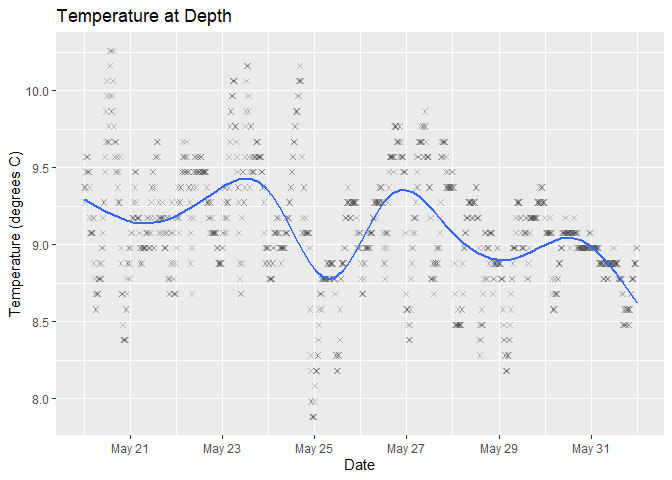
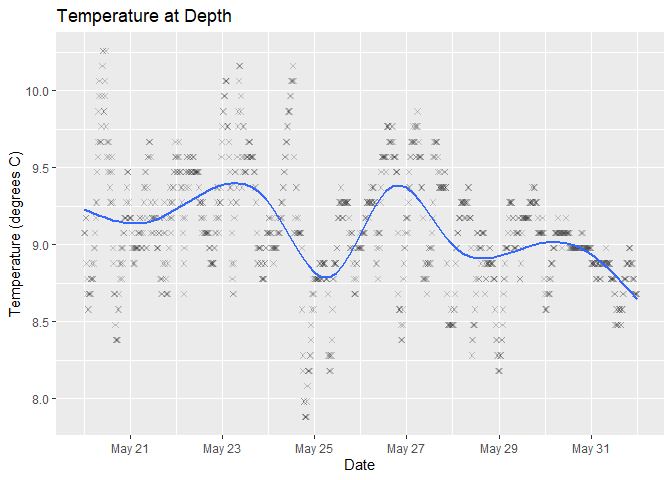
updated timezones

diff --git a/README.md b/README.md
@@ -28,16 +28,16 @@ x
     ## # A tibble: 9,025 x 4
     ##    Reading DateTime             Temp Intensity
     ##      <dbl> <dttm>              <dbl>     <dbl>
-    ##  1      69 2021-05-15 00:04:32  7.98         0
-    ##  2      70 2021-05-15 00:19:32  7.88         0
-    ##  3      71 2021-05-15 00:34:32  7.88         0
-    ##  4      72 2021-05-15 00:49:32  7.88         0
-    ##  5      73 2021-05-15 01:04:32  7.78         0
-    ##  6      74 2021-05-15 01:19:32  7.78         0
-    ##  7      75 2021-05-15 01:34:32  7.78         0
-    ##  8      76 2021-05-15 01:49:32  7.78         0
-    ##  9      77 2021-05-15 02:04:32  7.88         0
-    ## 10      78 2021-05-15 02:19:32  7.88         0
+    ##  1      85 2021-05-15 00:04:32  7.68         0
+    ##  2      86 2021-05-15 00:19:32  7.68         0
+    ##  3      87 2021-05-15 00:34:32  7.78         0
+    ##  4      88 2021-05-15 00:49:32  7.78         0
+    ##  5      89 2021-05-15 01:04:32  7.78         2
+    ##  6      90 2021-05-15 01:19:32  7.68         9
+    ##  7      91 2021-05-15 01:34:32  7.68        20
+    ##  8      92 2021-05-15 01:49:32  7.78        37
+    ##  9      93 2021-05-15 02:04:32  7.78        69
+    ## 10      94 2021-05-15 02:19:32  7.78        57
     ## # ... with 9,015 more rows
 
 ## Draw Example Plot
@@ -52,7 +52,7 @@ tempplot_x
 ## Read Example Data With User Defined Start/Stop Dates
 
 ``` r
-ss <- as.POSIXct(c("2021-05-20", "2021-06-01"), tz = "EST")
+ss <- as.POSIXct(c("2021-05-20", "2021-06-01"), tz = "UTC")
 xud <- read_hobotemp(clipped = "user", startstop = ss)
 xud
 ```
@@ -60,16 +60,16 @@ xud
     ## # A tibble: 1,152 x 4
     ##    Reading DateTime             Temp Intensity
     ##      <dbl> <dttm>              <dbl>     <dbl>
-    ##  1     549 2021-05-20 00:04:32  9.37         0
-    ##  2     550 2021-05-20 00:19:32  9.28         0
-    ##  3     551 2021-05-20 00:34:32  9.37         0
-    ##  4     552 2021-05-20 00:49:32  9.37         0
-    ##  5     553 2021-05-20 01:04:32  9.47         0
-    ##  6     554 2021-05-20 01:19:32  9.57         0
-    ##  7     555 2021-05-20 01:34:32  9.57         0
-    ##  8     556 2021-05-20 01:49:32  9.47         0
-    ##  9     557 2021-05-20 02:04:32  9.57         0
-    ## 10     558 2021-05-20 02:19:32  9.47         0
+    ##  1     565 2021-05-20 00:04:32  9.08         0
+    ##  2     566 2021-05-20 00:19:32  9.08         0
+    ##  3     567 2021-05-20 00:34:32  9.08         0
+    ##  4     568 2021-05-20 00:49:32  9.18         0
+    ##  5     569 2021-05-20 01:04:32  9.18         0
+    ##  6     570 2021-05-20 01:19:32  8.88         0
+    ##  7     571 2021-05-20 01:34:32  8.78         0
+    ##  8     572 2021-05-20 01:49:32  8.68         0
+    ##  9     573 2021-05-20 02:04:32  8.58         0
+    ## 10     574 2021-05-20 02:19:32  8.58         0
     ## # ... with 1,142 more rows
 
 ## Draw Example Plot User Defined Start/Stop Dates
@@ -91,16 +91,16 @@ xna
     ## # A tibble: 9,169 x 4
     ##    Reading DateTime             Temp Intensity
     ##      <dbl> <dttm>              <dbl>     <dbl>
-    ##  1       1 2021-05-14 07:19:32  20.1         1
-    ##  2       2 2021-05-14 07:19:59  NA          NA
-    ##  3       3 2021-05-14 07:34:32  20.5        36
-    ##  4       4 2021-05-14 07:49:32  20.5        37
-    ##  5       5 2021-05-14 08:04:32  15.5        26
-    ##  6       6 2021-05-14 08:19:32  14.0        25
-    ##  7       7 2021-05-14 08:34:32  14.7        38
-    ##  8       8 2021-05-14 08:49:32  14.7       123
-    ##  9       9 2021-05-14 09:04:32  13.9        60
-    ## 10      10 2021-05-14 09:19:32  15.3        35
+    ##  1       1 2021-05-14 03:19:32  20.1         1
+    ##  2       2 2021-05-14 03:19:59  NA          NA
+    ##  3       3 2021-05-14 03:34:32  20.5        36
+    ##  4       4 2021-05-14 03:49:32  20.5        37
+    ##  5       5 2021-05-14 04:04:32  15.5        26
+    ##  6       6 2021-05-14 04:19:32  14.0        25
+    ##  7       7 2021-05-14 04:34:32  14.7        38
+    ##  8       8 2021-05-14 04:49:32  14.7       123
+    ##  9       9 2021-05-14 05:04:32  13.9        60
+    ## 10      10 2021-05-14 05:19:32  15.3        35
     ## # ... with 9,159 more rows
 
 ## Draw Example Plot Without Clipping Data
